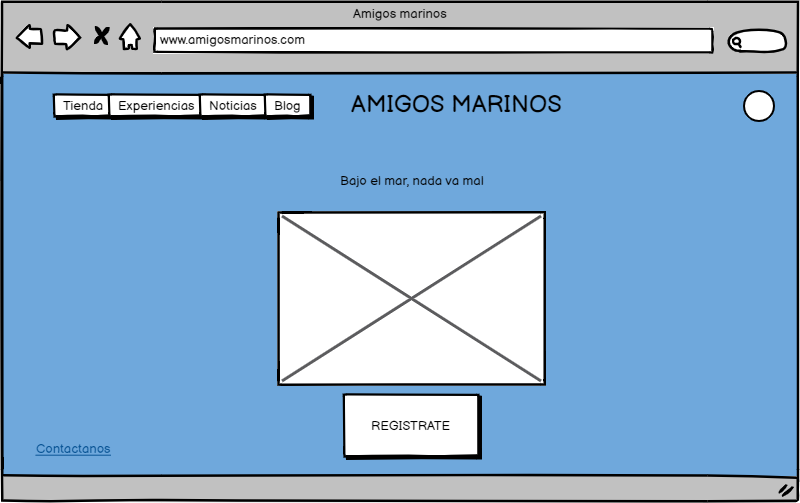
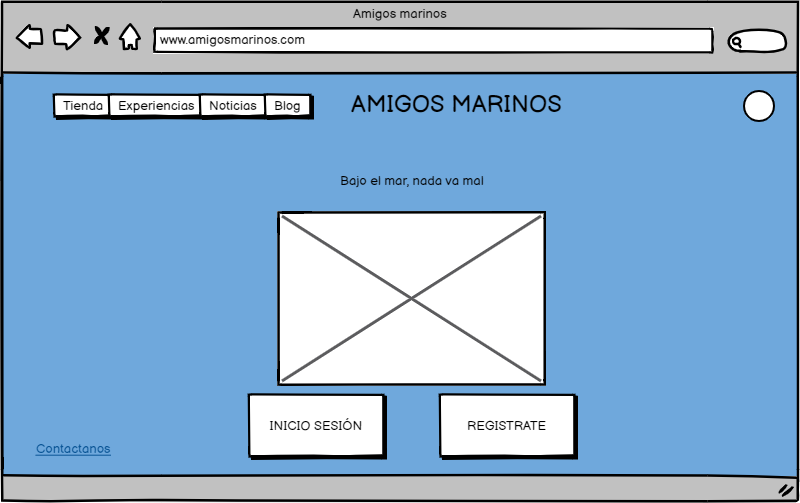
Inicio sesion y fotos

Changed region(s): [[0.2812, 0.7753, 0.75, 0.9245]]

diff --git a/bocetos.html b/bocetos.html
@@ -26,10 +26,12 @@
 		<li><a href="contacto.html">Contacto</a></li>
 	</menu>
 	<h2>Página de bocetos</h2>
-	<p>Esta imagen es la primera al entrar en la pagina, es para usuarios no registrados, aparece un boton para registrate, desde esta página y desde todas las demás, puedes acceder a los diferentes apartados de la página web, pulsando en el botón que te lleva a ellos, puede ser pulsando en la tienda, pulsando en experiencias, en noticias o en blog.</p>
+	<p>Esta imagen es la primera al entrar en la pagina, es para usuarios no registrados, aparece un boton para registrate y otro para iniciar sesión, desde esta página y desde todas las demás, puedes acceder a los diferentes apartados de la página web, pulsando en el botón que te lleva a ellos, puede ser pulsando en la tienda, pulsando en experiencias, en noticias o en blog. Para volver a esta página tienes que pulsar en el circulo vacio. </p>
 	<img src="./imagenes/USUARIO_SIN_REGISTRAR.png" alt="Usuario sin registrar primera vista" />
-	<p>Es el formulario del registro del usuario, para usuarios no registrados.</p>
+	<p>Es el formulario del registro del usuario, para usuarios no registrados, a esta pantalla se puede acceder desde el inicio, o desde cualquier punto, volviendo al inicio, siempre y cuando el usuario no este registrado.</p>
 	<img src="./imagenes/REGISTRO.png" alt="Es el formulario del registro del usuario, para usuarios no registrados" />
+	<p>Esta es la vista del inicio de sesión, te pide tu correo y tu contraseña, la imagen que hay es decorativa.</p>
+	<img src="./imagenes/INICIO_SESION.png" alt="Es el formulario del registro del usuario, para usuarios no registrados" />
 	<p>Es la imagen del usuario ya registrado, cambia el icono, si le das a este te lleva a tu perfil y puedes ver los datos.</p>
 	<img src="./imagenes/USUARIO_REGISTRADO.png" alt="" />
 	<p>Esta es la imagen para ver el perfil, aqui puedes revisar los datos y te da la opcion de modificar.</p>
